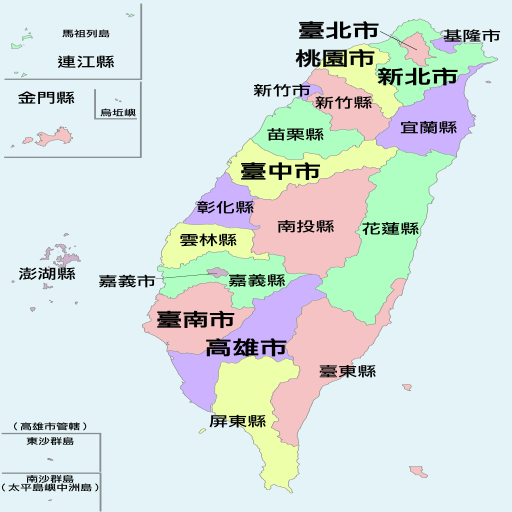
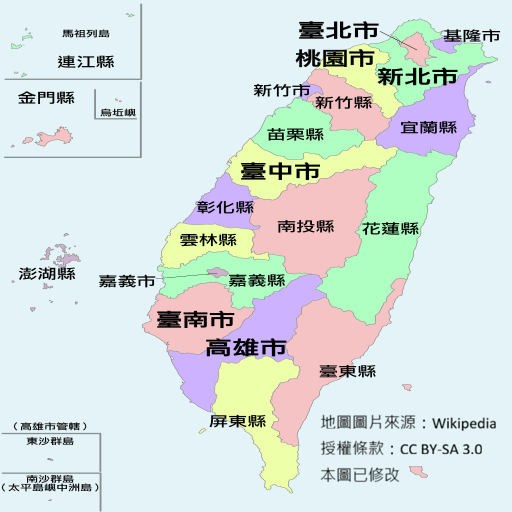
第六個遊戲

Changed region(s): [[0.625, 0.8125, 0.9688, 0.9375]]

diff --git a/lib/pages/game/page_game_puzzle_map.dart b/lib/pages/game/page_game_puzzle_map.dart
@@ -183,6 +183,10 @@ class _PageGamePuzzleMapState extends State<PageGamePuzzleMap> {
             itemBuilder: (_) => [
               const PopupMenuItem(
                   value: "assets/maps/taiwan.png", child: Text("Taiwan")),
+              const PopupMenuItem(
+                  value: "assets/maps/japan.png", child: Text("Japan")),   
+              const PopupMenuItem(
+                  value: "assets/maps/korea.png", child: Text("Korea")),   
             ],
             icon: const Icon(Icons.public),
           ),
@@ -207,7 +211,7 @@ class _PageGamePuzzleMapState extends State<PageGamePuzzleMap> {
           );
 
           if (maxWidth > maxHeight) {
-            mainSize = min(maxWidth - maxHeight, maxHeight);
+            mainSize = min(maxWidth - maxHeight, maxHeight) * 0.7;
             mainImage = SizedBox(
               width: mainSize,
               height: mainSize,
@@ -227,7 +231,7 @@ class _PageGamePuzzleMapState extends State<PageGamePuzzleMap> {
               ),
             );
           } else {
-            mainSize = min(maxHeight - maxWidth, maxWidth);
+            mainSize = min(maxHeight - maxWidth, maxWidth) * 0.7;
             mainImage = SizedBox(
               width: mainSize,
               height: mainSize,
@@ -238,8 +242,10 @@ class _PageGamePuzzleMapState extends State<PageGamePuzzleMap> {
             );
             return Center(
               child: Column(
-                mainAxisAlignment: MainAxisAlignment.center,
+                mainAxisAlignment: MainAxisAlignment.start, // 改成靠上
+                crossAxisAlignment: CrossAxisAlignment.center, // 水平置中
                 children: [
+                  Gaps.h16,
                   mainImage,
                   Gaps.h16,
                   puzzleArea,
